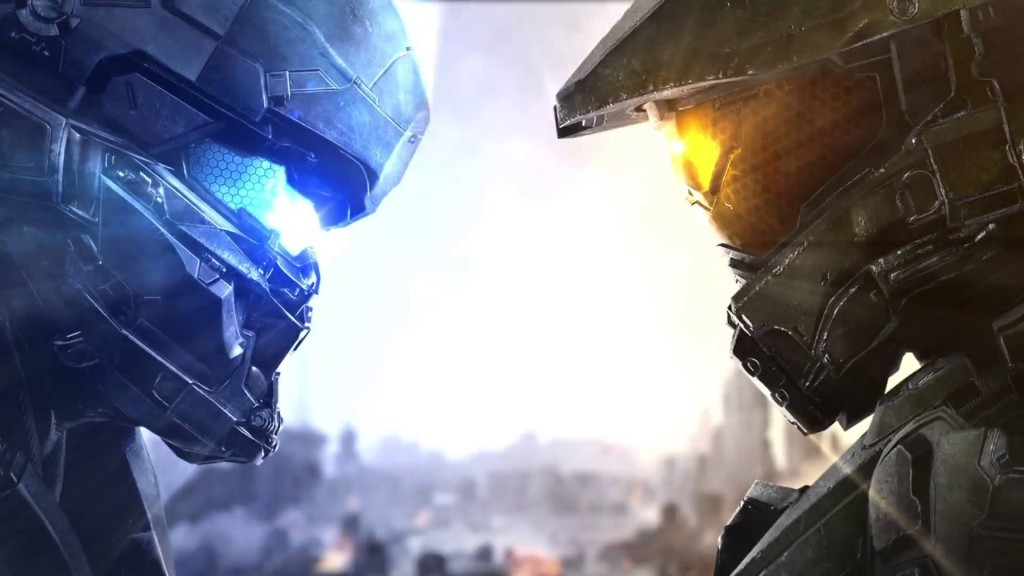
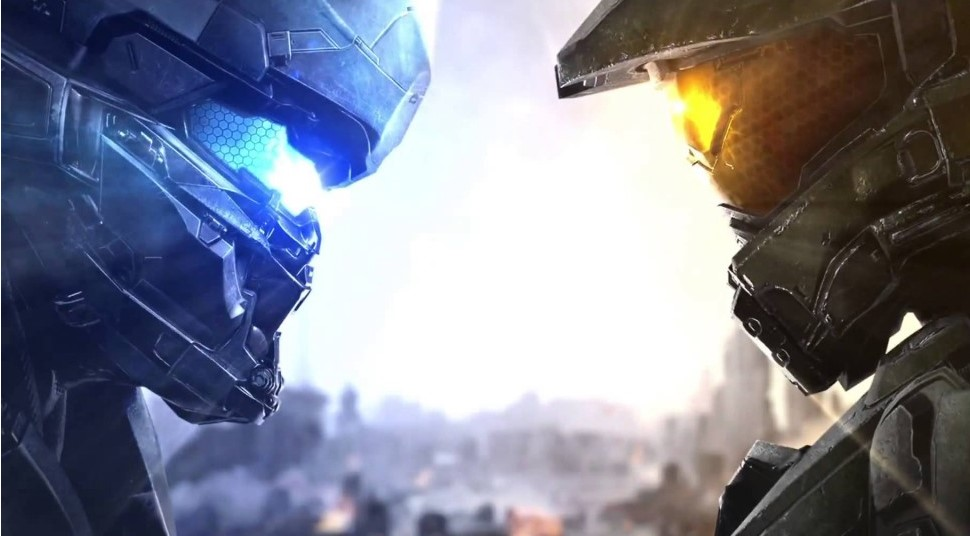
Cleaning CSS removing validation
Cleanup of extra lines and not working lines from CSS. Finish missing
brackets to photo, plus changes to photo size, padding and border color

diff --git a/screen.css b/screen.css
@@ -506,9 +506,9 @@ template {
    .container {
   max-width: 960px;
   margin: 0 auto;
-  /background: #FFF url(images/green.jpg) no-repeat center top;
   
-  /background-color: #0033cc;
+  
+  
   background: linear-gradient(to bottom, #00ccff 72%, #3333cc 100%);
   border: .25em solid #ff8000;
   
@@ -557,24 +557,23 @@ form {
   padding-bottom: 20px;
 }
 
-@media screen and (min-width: 400px) {
+@media screen and (min-width: 400px){ 
   .container {
   max-width: 960px;
-  margin: 0 auto;
+  }
   
  
 	img {
 		display: block;
 		margin-left: auto;
 		margin-right: auto;
-		max-width: 960;
-		padding:10px;
-		border: .25em solid #ff8000;
-		
-		
-		
-		
-		
-}
+		max-width: 700px;
+		padding:5px;
+		border: .15em solid #4646d2;
+	}
   
+		
+}	
+		
+
   
